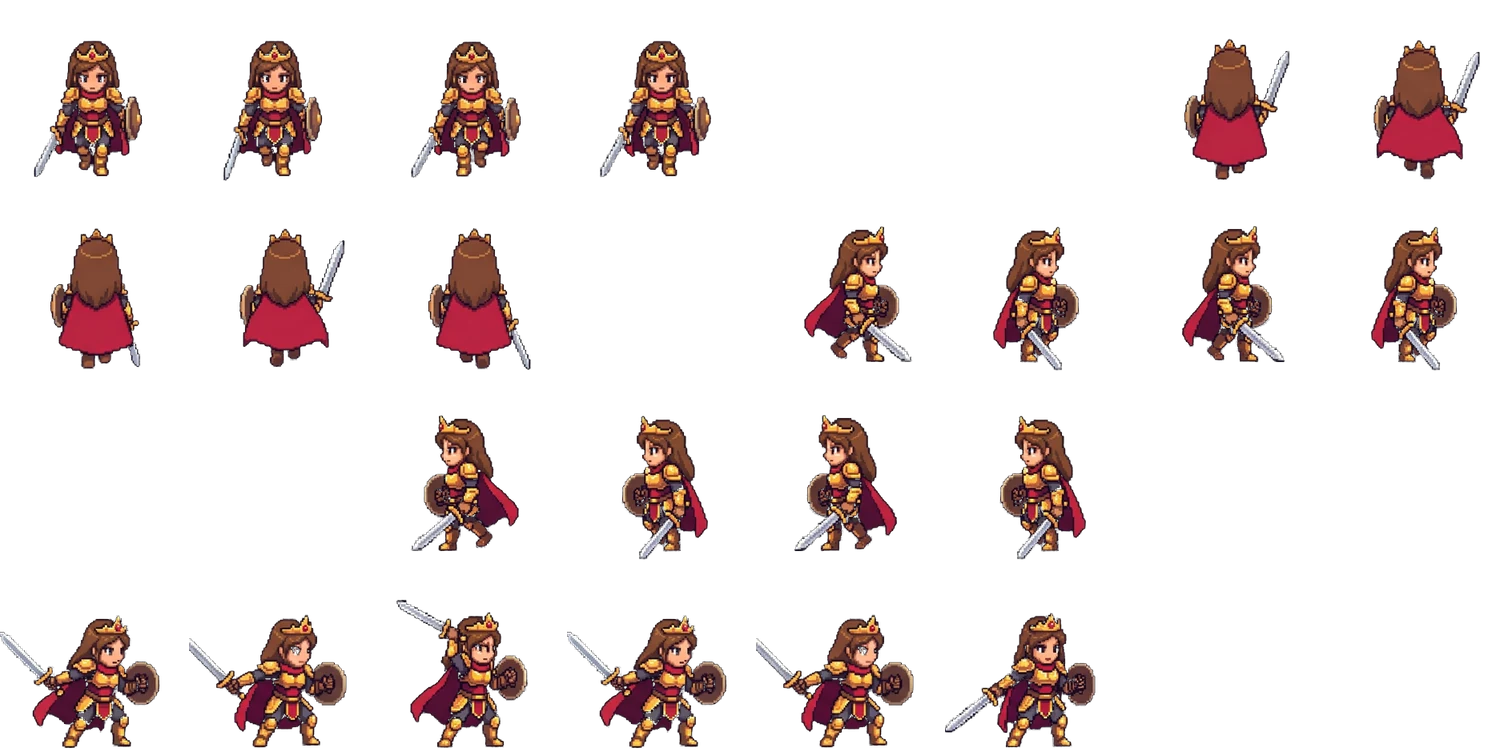
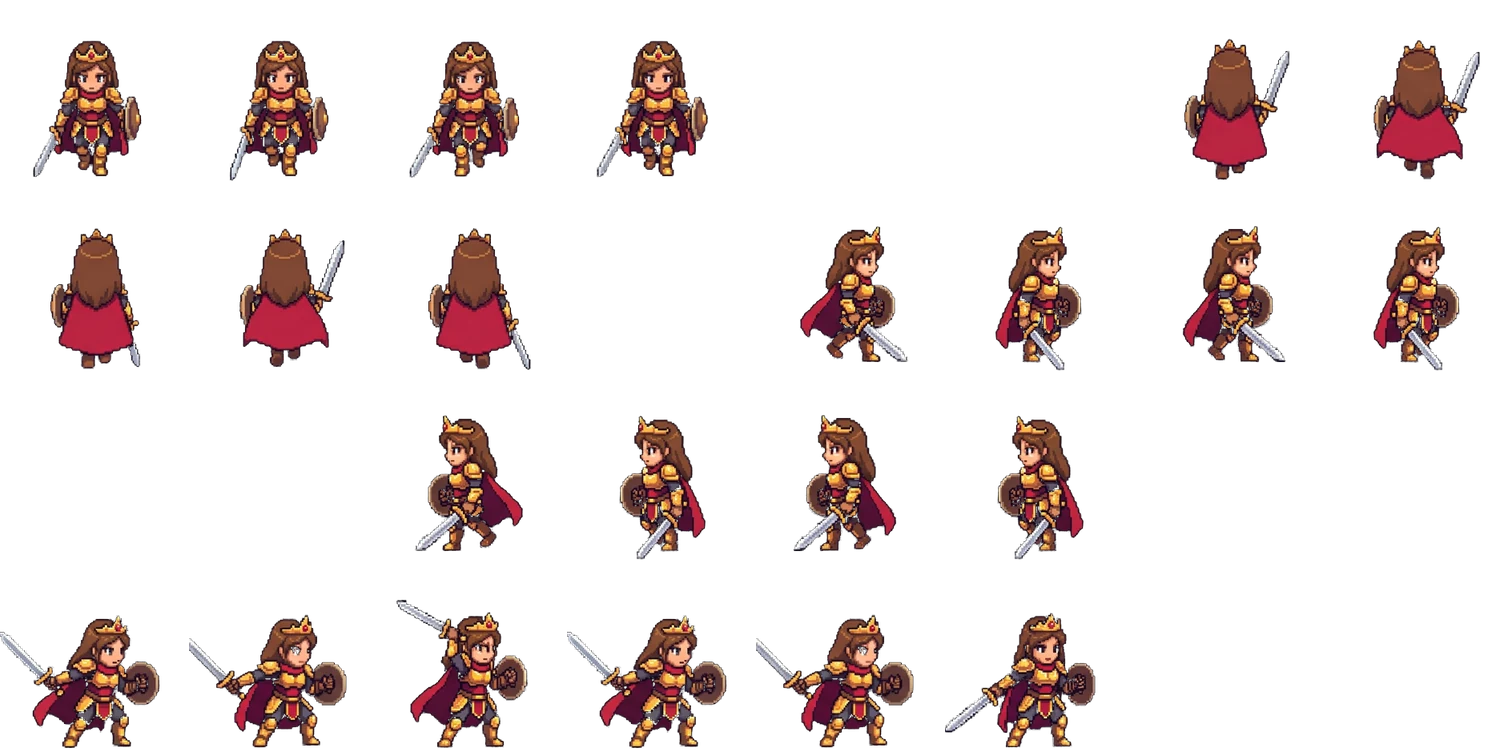
Thornbound: steady pixel-hero walks, no wobble
- Walk frames are lined up on the head and chest instead of each
  figure's outline, so a sword or leg sticking out no longer shifts the
  whole body; heads now hold within ~2px across a walk (was up to 16px)
- Pixel heroes get no step bounce; nobody gets the sideways tilt.
  Painted monsters keep a small bounce since their frames barely move

Claude-Session: https://claude.ai/code/session_014pmKHhP1nRV4NF2kc2q9vi

diff --git a/thornbound/game.js b/thornbound/game.js
@@ -219,15 +219,12 @@ function poseFrame(S, face, flip, anim, moving, pose) {
   const n = (WALK[S.kind] && WALK[S.kind][row]) || 5;
   return [row + (moving ? Math.floor(anim) % n : 0), false];
 }
-// A small bounce and sway on every step, so walking always reads as walking even where
-// neighbouring frames in the art are nearly the same.
-// The skeleton gets a heavier stomp, since its walk frames barely change.
-const STEP = { skeleton: [1.9, 0.055] };
+// A small bounce on every step for the painted monsters, whose walk frames barely change.
+// Pixel heroes animate their own legs, so they get none. No sideways tilt for anyone.
+const STEP = { skeleton: 1.9 };
 function stepMotion(anim, moving, kind) {
-  if (!moving) return [0, 0];
-  const [lift, sway] = STEP[kind] || [1.4, 0.045];
-  const s = Math.sin(anim * Math.PI * 0.8);
-  return [-Math.abs(s) * lift, s * sway];
+  if (!moving || HERO_SCALE[kind]) return [0, 0];
+  return [-Math.abs(Math.sin(anim * Math.PI * 0.8)) * (STEP[kind] || 1.4), 0];
 }
 function glowSprite(r, color) {
   const c = mk(r * 2, r * 2), x = c.getContext('2d');

diff --git a/thornbound/sw.js b/thornbound/sw.js
@@ -1,5 +1,5 @@
 // Offline cache for Thornbound. Bump VERSION whenever any cached file changes.
-const VERSION = 'thornbound-v10';
+const VERSION = 'thornbound-v11';
 const ASSETS = ['./', './index.html', './game.js', './manifest.webmanifest', './icon-180.png', './icon-192.png', './icon-512.png',
   './assets/sorceress@0.8.webp', './assets/queen@0.8.webp', './assets/ninja@0.8.webp', './assets/skeleton@0.44.webp', './assets/goblin@0.44.webp', './assets/goblin@0.8.webp',
   './assets/ghost@0.44.webp', './assets/ghost@0.8.webp', './assets/crystal32.webp', './assets/crystal64.webp', './assets/crystal160.webp',

diff --git a/thornbound/tools/build_assets.py b/thornbound/tools/build_assets.py
@@ -167,6 +167,30 @@ def pixel_figures(img, attack_x):
     return out
 
 
+def register(cells):
+    """Line a walk row's frames up on the upper body (head and chest), so the figure doesn't jitter
+    sideways when a sword or a leg sticks out further in one frame. Legs and arms keep moving."""
+    def band(c):
+        a = np.asarray(c).astype(np.float32)
+        al = a[..., 3] / 255
+        ys = np.nonzero(al.max(1) > 0.5)[0]
+        top, h = ys.min(), ys.max() - ys.min()
+        g = (a[..., :3].mean(2) / 255 + 0.5) * al          # shade + silhouette, so outlines and faces count
+        g[:int(top + h * 0.06)] = 0; g[int(top + h * 0.45):] = 0
+        return g
+    bands = [band(c) for c in cells]
+    ref = sum(bands) / len(bands)
+    shifts = []
+    for g in bands:
+        errs = {dx: np.abs(np.roll(g, dx, axis=1) - ref).mean() for dx in range(-30, 31)}
+        shifts.append(min(errs, key=errs.get))
+    mean = round(sum(shifts) / len(shifts))
+    out = []
+    for c, dx in zip(cells, shifts):
+        n = Image.new('RGBA', c.size); n.paste(c, (dx - mean, 0)); out.append(n)
+    return out
+
+
 def pixel_frames(name):
     spec = PIXEL[name]
     src = Image.open(f'{SRC}/{name}-sheet.jpg')
@@ -195,7 +219,7 @@ def pixel_frames(name):
         pieces = [piece(r, k) for k in ks]
         ground = max(y1 for _, y1 in pieces)            # one feet line per row: lifted feet stay lifted
         centre = sum(torso_x(p) for p, _ in pieces) / len(pieces)
-        walks[d] = [place(p, centre, round((ground - y1) * PIXEL_SCALE)) for p, y1 in pieces]
+        walks[d] = register([place(p, centre, round((ground - y1) * PIXEL_SCALE)) for p, y1 in pieces])
     out = []
     for d in DIRS:
         out += [(f'{d}{i}', walks[d][i] if i < len(walks[d]) else Image.new('RGBA', (CELL_W, CELL_H))) for i in range(SLOTS)]
